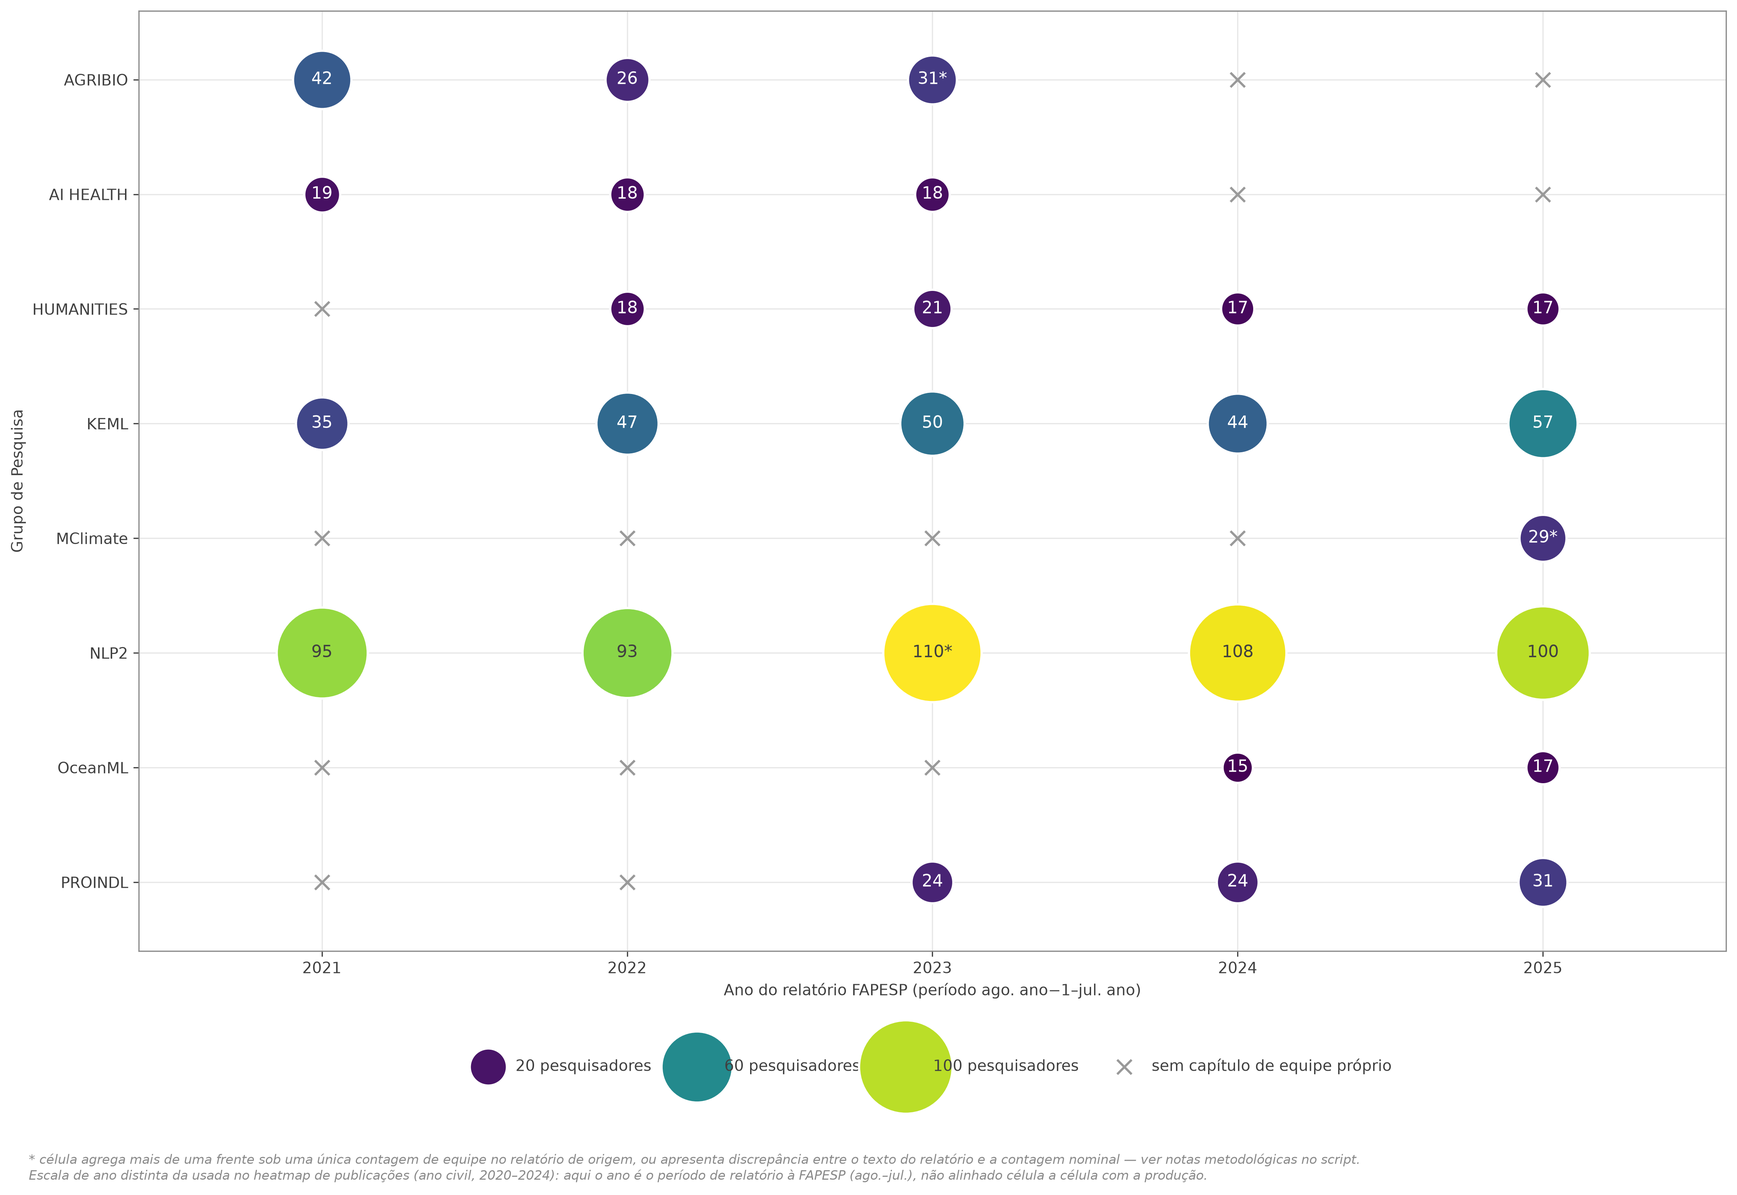
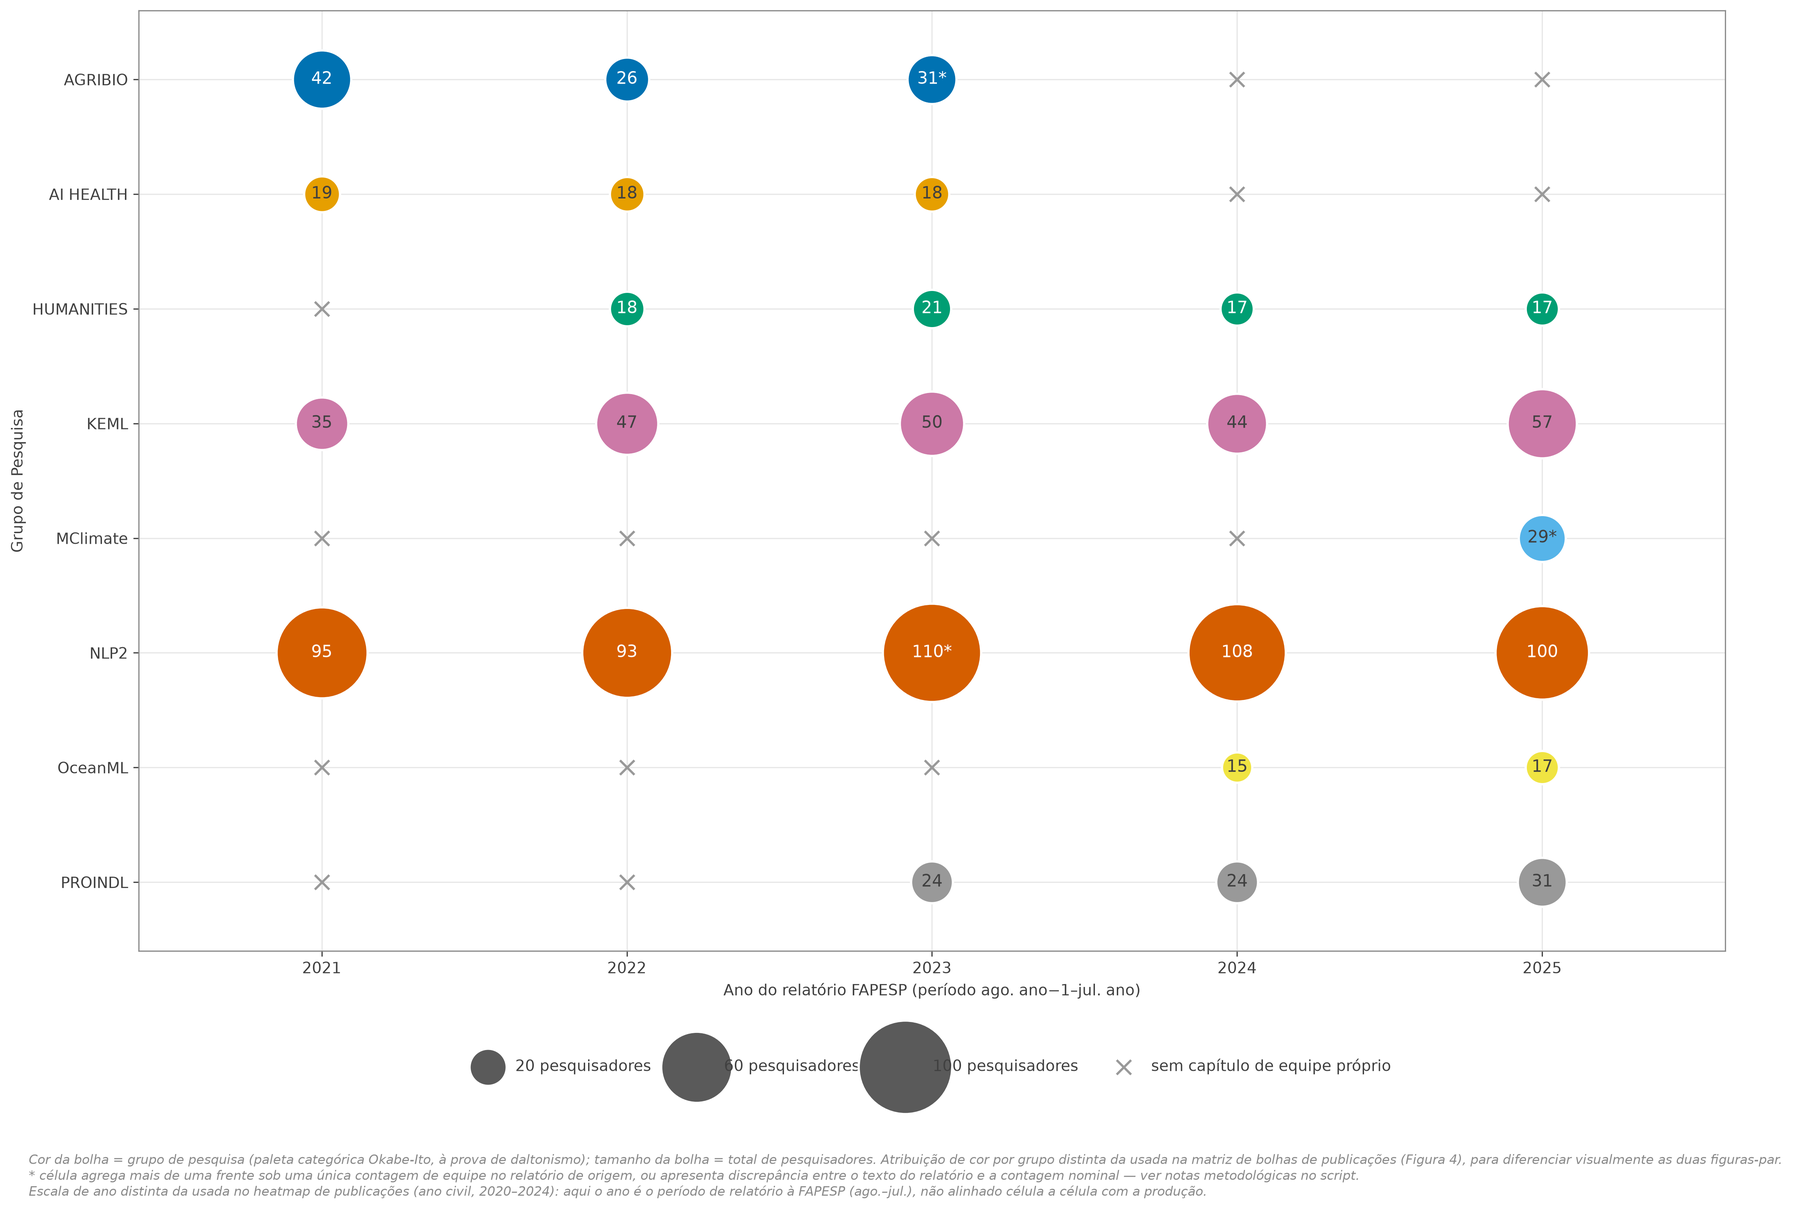
Recolore matrizes de bolhas para paleta categórica Okabe-Ito
Substitui a escala viridis (sequencial, redundante com o tamanho da
bolha) por cor categórica por grupo de pesquisa nas duas figuras de
bolhas grupo × ano: composição de equipe (Figura 12, equipe_composicao.py)
e a nova variante em bolhas do heatmap de publicações
(bolhas_publicacoes.py, saída 4_heatmap_grupo_ano_bolhas.png).

A ordem de atribuição de cor por grupo é deliberadamente diferente entre
as duas figuras (produtividade vs. alfabética), para que fiquem
diferenciáveis entre si mesmo compartilhando a mesma paleta-mestra da
tese (Okabe-Ito, à prova de daltonismo).

diff --git a/bolhas_publicacoes.py b/bolhas_publicacoes.py
@@ -1,0 +1,178 @@
+# -*- coding: utf-8 -*-
+"""
+bolhas_publicacoes.py — Matriz de bolhas de publicações por grupo × ano (C4AI)
+===============================================================================
+Variante em bolhas da Figura 4 (4_heatmap_grupo_ano.png, mapa de calor), usada
+especificamente na versão do capítulo 3 da tese: mesma grade grupo × ano, com
+o tamanho da bolha indicando o número de publicações e a cor identificando
+categoricamente o grupo de pesquisa (paleta Okabe-Ito, à prova de daltonismo),
+em vez de uma escala de cor sequencial (viridis) redundante com o tamanho.
+
+A ordem dos grupos (eixo y) segue o ranking de produtividade (decrescente),
+igual à Figura 1/Tabela 2 do relatório. A atribuição de cor por grupo nessa
+ordem é deliberadamente diferente da atribuição usada em
+equipe_composicao.py (ordem alfabética) — assim, o mesmo grupo aparece em
+cores diferentes nas duas figuras-par (publicações × equipe), e as duas
+figuras ficam visualmente diferenciáveis entre si, sem recorrer a paletas
+fora da identidade da tese (ver notas de estilo em equipe_composicao.py,
+espelhando infranodus/estilo_rede.py).
+
+Fonte dos dados: output/c4ai_matriz_grupo_ano.xlsx (crosstab gerado por
+analise_publicacoes a partir de c4ai_publicacoes.xlsx).
+
+Uso:
+    python bolhas_publicacoes.py
+"""
+
+from pathlib import Path
+
+import matplotlib.pyplot as plt
+import pandas as pd
+
+# ──────────────────────────────────────────────────────────────────────────────
+# DADOS
+# ──────────────────────────────────────────────────────────────────────────────
+
+INPUT_MATRIZ = "output/c4ai_matriz_grupo_ano.xlsx"
+
+# Ordem de produtividade decrescente (igual à Figura 1 / Tabela 2 do RELATORIO.md)
+GRUPOS_ORDEM = [
+    "NLP2", "KEML", "AGRIBIO", "AI HEALTH", "HUMANITIES",
+    "PROINDL", "MClimate", "OceanML",
+]
+
+# Paleta categórica Okabe-Ito (colorblind-safe), na ordem de produtividade —
+# deliberadamente distinta da ordem alfabética usada em equipe_composicao.py,
+# para que cada grupo tenha cor diferente nas duas figuras-par.
+CORES_POR_GRUPO = {
+    "NLP2":       "#0072B2",  # azul
+    "KEML":       "#E69F00",  # laranja
+    "AGRIBIO":    "#009E73",  # verde
+    "AI HEALTH":  "#CC79A7",  # magenta
+    "HUMANITIES": "#56B4E9",  # azul claro
+    "PROINDL":    "#D55E00",  # vermelho
+    "MClimate":   "#F0E442",  # amarelo
+    "OceanML":    "#999999",  # cinza
+}
+
+# ──────────────────────────────────────────────────────────────────────────────
+# ESTILO (mesma identidade visual de equipe_composicao.py / estilo_rede.py)
+# ──────────────────────────────────────────────────────────────────────────────
+
+COR_TEXTO = "#404040"
+COR_NOTA = "#8a8a8a"
+COR_LEGENDA_TAMANHO = "#5a5a5a"  # cinza neutro: legenda de tamanho não usa cor de grupo
+
+plt.rcParams["font.family"] = "DejaVu Sans"
+
+
+def cor_texto_sobre(hex_cor: str) -> str:
+    """Réplica da regra de contraste usada nas demais figuras da tese:
+    branco se luminância < 0,55, cinza escuro caso contrário."""
+    from matplotlib.colors import to_rgb
+    r, g, b = to_rgb(hex_cor)
+    luminancia = 0.2126 * r + 0.7152 * g + 0.0722 * b
+    return "white" if luminancia < 0.55 else COR_TEXTO
+
+
+def save(fig, outdir: Path, filename: str):
+    path = outdir / filename
+    fig.savefig(path, dpi=300, bbox_inches="tight", facecolor="white")
+    plt.close(fig)
+    print(f"  ✓  {path}")
+
+
+def carregar_matriz(path: str) -> pd.DataFrame:
+    df = pd.read_excel(path, index_col=0)
+    df = df.drop(columns=["All"], errors="ignore")
+    df = df.drop(index=["All"], errors="ignore")
+    df = df.reindex(GRUPOS_ORDEM)
+    return df
+
+
+def plot_bolhas_publicacoes(matriz: pd.DataFrame, outdir: Path):
+    grupos = list(matriz.index)
+    anos = list(matriz.columns)
+
+    fig, ax = plt.subplots(figsize=(14, 9))
+
+    valores = matriz.values.astype(float)
+    vmin, vmax = valores.min(), valores.max()
+    tamanho_min, tamanho_max = 300, 3800
+
+    for i, grupo in enumerate(grupos):
+        cor = CORES_POR_GRUPO[grupo]
+        for j, ano in enumerate(anos):
+            total = matriz.loc[grupo, ano]
+            frac = (total - vmin) / (vmax - vmin)
+            tamanho = tamanho_min + frac * (tamanho_max - tamanho_min)
+
+            ax.scatter(
+                j, i, s=tamanho, color=cor, edgecolors="white", linewidths=1.5,
+                zorder=3,
+            )
+            ax.text(
+                j, i, f"{int(total)}", ha="center", va="center", fontsize=11,
+                color=cor_texto_sobre(cor), zorder=4,
+            )
+
+    ax.set_xticks(range(len(anos)))
+    ax.set_xticklabels([f"{a}" for a in anos], color=COR_TEXTO)
+    ax.set_yticks(range(len(grupos)))
+    ax.set_yticklabels(grupos, color=COR_TEXTO)
+    ax.invert_yaxis()
+
+    ax.set_xlim(-0.6, len(anos) - 0.4)
+    ax.set_ylim(len(grupos) - 0.4, -0.6)
+
+    ax.set_xlabel("Ano", color=COR_TEXTO)
+    ax.set_ylabel("Grupo de Pesquisa", color=COR_TEXTO)
+    ax.tick_params(colors=COR_TEXTO)
+    for spine in ax.spines.values():
+        spine.set_color(COR_NOTA)
+
+    ax.grid(True, alpha=0.2, linewidth=0.8, color=COR_NOTA)
+    ax.set_axisbelow(True)
+
+    # legenda de tamanho (cor neutra: aqui a cor do marcador identifica o
+    # grupo, já dado pelo eixo y — a legenda trata apenas da escala de tamanho).
+    # Escala reduzida (não literalmente igual à do gráfico) só para caber sem
+    # sobrepor o texto — a proporção relativa entre os três pontos é preservada.
+    legenda_tamanho_min, legenda_tamanho_max = 90, 700
+    for valor_ref in (10, 30, 60):
+        frac = (valor_ref - vmin) / (vmax - vmin)
+        frac = min(max(frac, 0), 1)
+        tamanho = legenda_tamanho_min + frac * (legenda_tamanho_max - legenda_tamanho_min)
+        ax.scatter(
+            [], [], s=tamanho, color=COR_LEGENDA_TAMANHO, edgecolors="white",
+            linewidths=1.5, label=f"{valor_ref} publicações",
+        )
+    legenda = ax.legend(
+        loc="upper center", bbox_to_anchor=(0.5, -0.10), ncol=3, frameon=False,
+        fontsize=10, labelcolor=COR_TEXTO, columnspacing=3.0, handletextpad=1.0,
+        borderaxespad=1.5,
+    )
+
+    nota_rodape = (
+        "Cor da bolha = grupo de pesquisa (paleta categórica Okabe-Ito, à prova de daltonismo); "
+        "tamanho da bolha = número de publicações no ano. "
+        "Atribuição de cor por grupo distinta da usada na Figura 12 (composição de equipe), "
+        "para diferenciar visualmente as duas matrizes de bolhas."
+    )
+    fig.text(0.02, -0.08, nota_rodape, fontsize=8.5, color=COR_NOTA, style="italic", ha="left", va="top")
+
+    plt.tight_layout()
+    save(fig, outdir, "4_heatmap_grupo_ano_bolhas.png")
+
+
+def main():
+    matriz = carregar_matriz(INPUT_MATRIZ)
+    for outdir_name in ("output", "figuras"):
+        outdir = Path(outdir_name)
+        outdir.mkdir(parents=True, exist_ok=True)
+        plot_bolhas_publicacoes(matriz, outdir)
+    print("\nMatriz de bolhas de publicações concluída.\n")
+
+
+if __name__ == "__main__":
+    main()

diff --git a/equipe_composicao.py b/equipe_composicao.py
@@ -2,9 +2,13 @@
 """
 equipe_composicao.py — Composição de equipe por grupo do C4AI (2021–2025)
 ==========================================================================
-Figura-par do heatmap de publicações (4_heatmap_grupo_ano.png / analise_publicacoes):
-mesma grade grupo × ano, trocando a cor (nº de publicações) pelo tamanho da bolha
-(nº de pesquisadores declarado no relatório anual à FAPESP).
+Figura-par da matriz de bolhas de publicações (4_heatmap_grupo_ano_bolhas.png /
+bolhas_publicacoes.py): mesma grade grupo × ano, com o tamanho da bolha indicando
+o nº de pesquisadores declarado no relatório anual à FAPESP (em vez do nº de
+publicações). A cor da bolha é categórica por grupo (Okabe-Ito, ordem alfabética),
+deliberadamente diferente da atribuição usada na figura-par de publicações (ordem
+por produtividade), para que as duas matrizes de bolhas fiquem diferenciáveis
+entre si mesmo compartilhando a mesma paleta-mestra da tese.
 
 Fonte dos dados: seções "Human resources" (relatórios 2021–2022) e "Team"
 (relatórios 2023–2025) de cada capítulo dos relatórios científicos do C4AI à FAPESP,
@@ -110,20 +114,26 @@ CORES_OKABE_ITO = {
 # PLOT
 # ──────────────────────────────────────────────────────────────────────────────
 
-# ── Identidade visual da tese (estilo_rede.py: viridis sequencial, "bolinha" com
-# borda branca, DejaVu Sans, tinta cinza #404040 sem negrito, nota em itálico
-# #8a8a8a, sem título embutido na imagem — a legenda do LaTeX titula) ──────────
+# ── Identidade visual da tese (estilo_rede.py: Okabe-Ito categórico, "bolinha"
+# com borda branca, DejaVu Sans, tinta cinza #404040 sem negrito, nota em
+# itálico #8a8a8a, sem título embutido na imagem — a legenda do LaTeX titula).
+# A cor da bolha codifica o grupo (CORES_OKABE_ITO acima), não mais uma escala
+# sequencial (viridis) redundante com o tamanho. ──────────────────────────────
 
 COR_TEXTO = "#404040"
 COR_NOTA = "#8a8a8a"
 COR_AUSENTE = "#999999"  # cinza da paleta categórica Okabe-Ito (slot neutro)
+COR_LEGENDA_TAMANHO = "#5a5a5a"  # cinza neutro p/ legenda de tamanho (cor não é grupo aqui)
 
 plt.rcParams["font.family"] = "DejaVu Sans"
 
 
-def cor_texto_sobre(rgba) -> str:
-    """Réplica da regra de contraste de estilo_rede.py: branco se luminância < 0,55."""
-    r, g, b = rgba[0], rgba[1], rgba[2]
+def cor_texto_sobre(cor) -> str:
+    """Réplica da regra de contraste de estilo_rede.py: branco se luminância < 0,55.
+
+    Aceita tanto uma cor hexadecimal ("#0072B2") quanto uma tupla RGB(A).
+    """
+    r, g, b = to_rgb(cor)
     luminancia = 0.2126 * r + 0.7152 * g + 0.0722 * b
     return "white" if luminancia < 0.55 else COR_TEXTO
 
@@ -143,12 +153,12 @@ def plot_composicao_bolhas(totais: pd.DataFrame, outdir: Path):
 
     valores = totais.values.astype(float)
     vmin, vmax = np.nanmin(valores), np.nanmax(valores)
-    cmap = plt.get_cmap("viridis")
 
     # tamanho da bolha por área (não por raio), para não exagerar a diferença visual
     tamanho_min, tamanho_max = 400, 4200
 
     for i, grupo in enumerate(grupos):
+        cor = CORES_OKABE_ITO[grupo]
         for j, ano in enumerate(anos):
             total = totais.loc[grupo, ano]
 
@@ -161,7 +171,6 @@ def plot_composicao_bolhas(totais: pd.DataFrame, outdir: Path):
 
             frac = (total - vmin) / (vmax - vmin)
             tamanho = tamanho_min + frac * (tamanho_max - tamanho_min)
-            cor = cmap(frac)
 
             ax.scatter(
                 j, i, s=tamanho, color=cor, edgecolors="white", linewidths=1.5,
@@ -197,13 +206,15 @@ def plot_composicao_bolhas(totais: pd.DataFrame, outdir: Path):
     ax.grid(True, alpha=0.2, linewidth=0.8, color=COR_NOTA)
     ax.set_axisbelow(True)
 
-    # legenda de tamanho (3 pontos de referência)
+    # legenda de tamanho (3 pontos de referência, cor neutra: aqui a cor do
+    # marcador identifica o grupo, já dado pelo eixo y — a legenda de tamanho
+    # não deve ser confundida com uma quarta cor de grupo)
     for valor_ref in (20, 60, 100):
         frac = (valor_ref - vmin) / (vmax - vmin)
         frac = min(max(frac, 0), 1)
         tamanho = tamanho_min + frac * (tamanho_max - tamanho_min)
         ax.scatter(
-            [], [], s=tamanho, color=cmap(frac), edgecolors="white",
+            [], [], s=tamanho, color=COR_LEGENDA_TAMANHO, edgecolors="white",
             linewidths=1.5, label=f"{valor_ref} pesquisadores",
         )
     ax.scatter([], [], s=90, marker="x", color=COR_AUSENTE, linewidths=1.5,
@@ -214,6 +225,9 @@ def plot_composicao_bolhas(totais: pd.DataFrame, outdir: Path):
     )
 
     nota_rodape = (
+        "Cor da bolha = grupo de pesquisa (paleta categórica Okabe-Ito, à prova de daltonismo); "
+        "tamanho da bolha = total de pesquisadores. Atribuição de cor por grupo distinta da usada na "
+        "matriz de bolhas de publicações (Figura 4), para diferenciar visualmente as duas figuras-par.\n"
         "* célula agrega mais de uma frente sob uma única contagem de equipe no relatório de origem, "
         "ou apresenta discrepância entre o texto do relatório e a contagem nominal — ver notas metodológicas no script.\n"
         "Escala de ano distinta da usada no heatmap de publicações (ano civil, 2020–2024): "

diff --git a/documento_analise.tex b/documento_analise.tex
@@ -222,8 +222,9 @@ concentra sua produção em 2023 (\num{37} publicações), sem registros em 2024
 \caption[Composição de equipe por grupo (2021--2025)]{%
 \textbf{Composição de equipe por grupo do C4AI, 2021--2025.}
 Figura-par da Figura~\ref{fig:heatmap}: mesma grade grupo \texttimes{} ano, com o
-tamanho e a cor da bolha (escala viridis) indicando o total de pesquisadores
-declarado no relatório anual à FAPESP, em vez do número de publicações.
+tamanho da bolha indicando o total de pesquisadores declarado no relatório anual
+à FAPESP (em vez do número de publicações) e a cor identificando categoricamente
+o grupo de pesquisa (paleta Okabe-Ito, à prova de daltonismo).
 Marcadores em \texttimes{} cinza indicam grupos sem capítulo de equipe próprio
 naquele relatório --- dado ausente, não equipe de tamanho zero. \textbf{NLP2}
 lidera com folga em todos os anos (entre \num{93} e \num{110} pesquisadores),

diff --git a/RELATORIO.md b/RELATORIO.md
@@ -108,7 +108,7 @@ As figuras a seguir foram geradas automaticamente e estão disponíveis em alta 
 
 ![Composição de equipe por grupo do C4AI, 2021–2025 — bolha grupo × ano, tamanho e cor por total de pesquisadores](figuras/12_composicao_equipe_bolhas.png)
 
-**Composição de equipe por grupo do C4AI, 2021–2025.** Figura-par da Figura 4: mesma grade grupo × ano, com o tamanho e a cor da bolha (escala viridis) indicando o total de pesquisadores declarado no relatório anual à FAPESP, em vez do número de publicações. Marcadores em × cinza indicam grupos sem capítulo de equipe próprio naquele relatório — dado ausente, não equipe de tamanho zero. NLP2 lidera com folga em todos os anos (entre 93 e 110 pesquisadores), acompanhando sua liderança em produção observada na Figura 4; AI HEALTH deixa de ter capítulo próprio a partir de 2024, coincidindo com a queda de suas publicações a zero no mesmo ano. O eixo do ano segue o período do relatório à FAPESP (ago. ano−1–jul. ano), escala distinta do ano civil de publicação usado na Figura 4; as duas não foram alinhadas célula a célula e permanecem como leituras complementares, não sobrepostas. Células marcadas com "*" agregam mais de uma frente de pesquisa sob uma única contagem de equipe no relatório de origem, ou registram divergência entre o texto do relatório e a contagem nominal (ver nota metodológica na própria figura).
+**Composição de equipe por grupo do C4AI, 2021–2025.** Figura-par da Figura 4: mesma grade grupo × ano, com o tamanho da bolha indicando o total de pesquisadores declarado no relatório anual à FAPESP (em vez do número de publicações) e a cor identificando categoricamente o grupo de pesquisa (paleta Okabe-Ito, à prova de daltonismo, em ordem alfabética — deliberadamente distinta da ordem por produtividade usada na variante em bolhas da Figura 4, [`bolhas_publicacoes.py`](bolhas_publicacoes.py), para que as duas matrizes fiquem diferenciáveis entre si). Marcadores em × cinza indicam grupos sem capítulo de equipe próprio naquele relatório — dado ausente, não equipe de tamanho zero. NLP2 lidera com folga em todos os anos (entre 93 e 110 pesquisadores), acompanhando sua liderança em produção observada na Figura 4; AI HEALTH deixa de ter capítulo próprio a partir de 2024, coincidindo com a queda de suas publicações a zero no mesmo ano. O eixo do ano segue o período do relatório à FAPESP (ago. ano−1–jul. ano), escala distinta do ano civil de publicação usado na Figura 4; as duas não foram alinhadas célula a célula e permanecem como leituras complementares, não sobrepostas. Células marcadas com "*" agregam mais de uma frente de pesquisa sob uma única contagem de equipe no relatório de origem, ou registram divergência entre o texto do relatório e a contagem nominal (ver nota metodológica na própria figura).
 
 *Fonte dos dados de equipe: seções "Human resources" (relatórios 2021–2022) e "Team" (relatórios 2023–2025) dos relatórios científicos do C4AI à FAPESP, curadoria manual tabulada e gerada por [`equipe_composicao.py`](equipe_composicao.py).*
 

diff --git a/README.md b/README.md
@@ -83,13 +83,23 @@ python coword_analysis.py --no-html               # só PNG
 
 ### 4. Composição de equipe (bolha grupo × ano)
 
-Figura-par do heatmap de publicações (Figura 4): mesma grade grupo × ano, com o tamanho e a cor da bolha indicando o total de pesquisadores por grupo, a partir da curadoria manual dos relatórios anuais do C4AI à FAPESP (2021–2025):
+Figura-par do heatmap de publicações (Figura 4): mesma grade grupo × ano, com o tamanho da bolha indicando o total de pesquisadores por grupo e a cor identificando categoricamente o grupo (paleta Okabe-Ito, ordem alfabética), a partir da curadoria manual dos relatórios anuais do C4AI à FAPESP (2021–2025):
 
 ```bash
 python equipe_composicao.py
 ```
 
 > Dados embutidos no próprio script (`TOTAIS`), com notas metodológicas para células que agregam mais de uma frente de pesquisa ou apresentam divergência entre o relatório e a contagem nominal. Saída: `12_composicao_equipe_bolhas.png`, `13_composicao_equipe_streamgraph.png` (forma alternativa/não convencional dos mesmos dados) e `c4ai_composicao_equipe.xlsx` (tabela + notas).
+
+### 5. Matriz de bolhas de publicações (variante da Figura 4)
+
+Variante em bolhas do heatmap de publicações, usada no capítulo da tese: mesma grade grupo × ano, com o tamanho da bolha indicando o número de publicações e a cor identificando categoricamente o grupo (paleta Okabe-Ito, ordem por produtividade — distinta da ordem usada na Figura 12, para diferenciar as duas matrizes):
+
+```bash
+python bolhas_publicacoes.py
+```
+
+> Lê `output/c4ai_matriz_grupo_ano.xlsx` (gerado por `analise_publicacoes`). Saída: `4_heatmap_grupo_ano_bolhas.png`.
 
 Saídas em `output/coword/`: `10_rede_coword.png`, `11_rede_coword_temporal.png`, `rede_coword_interativa.html` e tabelas (`coword_arestas.xlsx`, `coword_nos_comunidades.xlsx`, `coword_termos_por_periodo.xlsx`).
 
@@ -114,6 +124,7 @@ c4ai-publications/
 ├── analise_publicacoes        # análise bibliométrica principal (Figuras 1–9)
 ├── coword_analysis.py         # co-word analysis / rede de co-ocorrência (Figuras 10–11)
 ├── equipe_composicao.py       # composição de equipe por grupo, curadoria manual (Figura 12)
+├── bolhas_publicacoes.py      # matriz de bolhas de publicações, variante da Figura 4
 ├── enrich_metadata.py         # enriquecimento opcional via OpenAlex (abstracts/keywords)
 ├── documento_analise.tex      # relatório em LaTeX
 ├── RELATORIO.md               # relatório em Markdown (com inventário de figuras)
